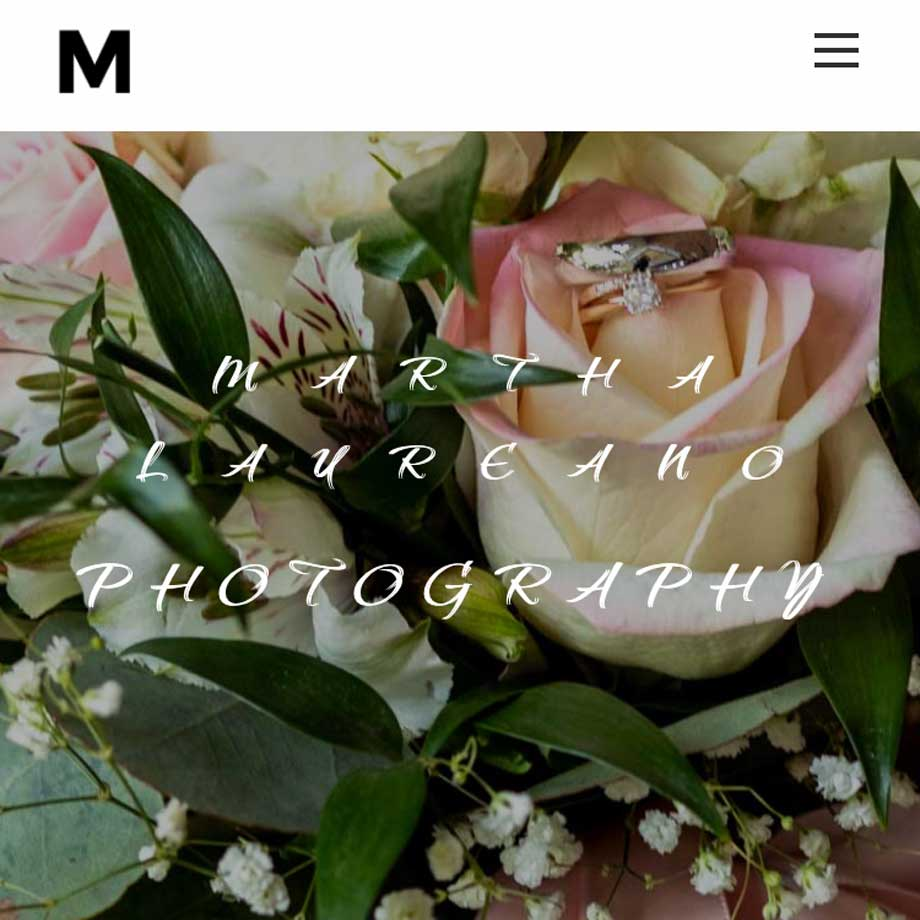
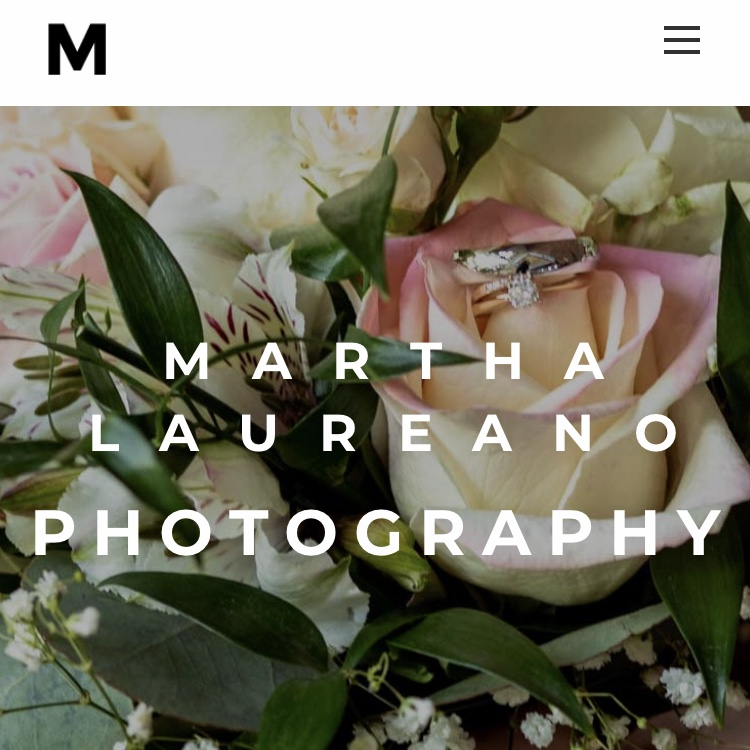
updated thumb for salonposhfresno and marthalaureanophotography

diff --git a/index.html b/index.html
@@ -65,7 +65,7 @@
 							<li><a href="#home"><span class="menu-item-span">Home</span></a></li>
 							<li><a href="#profile"><span class="menu-item-span">Profile</span></a></li>
 							<li><a href="#portfolio"><span class="menu-item-span">Work</span></a></li>
-							<li><a href="#services"><span class="menu-item-span">Services</span></a></li>
+							<!-- <li><a href="#services"><span class="menu-item-span">Services</span></a></li> -->
 							<li><a href="#contact"><span class="menu-item-span">Contact</span></a></li>
 							</li>
 						</ul>
@@ -204,7 +204,7 @@
 						</div>
 						<div class="portfolio-item js-tilt web design large">
 							<div class="portfolio-wrapper">
-								<div class="portfolio-img-wrap" data-background="assets/images/portfolio/ML2.jpg"></div>
+								<div class="portfolio-img-wrap" data-background="assets/images/portfolio/ML3.jpg"></div>
 								<div class="portfolio-overlay"></div>
 								<div class="portfolio-caption">
 									<h5 class="portfolio-title">Martha Laureano</h5>
@@ -214,7 +214,7 @@
 						</div>
 						<div class="portfolio-item js-tilt branding web design large">
 							<div class="portfolio-wrapper">
-								<div class="portfolio-img-wrap" data-background="assets/images/portfolio/PS1.jpg"></div>
+								<div class="portfolio-img-wrap" data-background="assets/images/portfolio/PS2.jpg"></div>
 								<div class="portfolio-overlay"></div>
 								<div class="portfolio-caption">
 									<h5 class="portfolio-title">Salon Posh | Posh Suites</h5>
@@ -278,7 +278,7 @@
 			<!-- Portfolio end-->
 
 			<!-- Services-->
-			<section class="module" id="services">
+			<!-- <section class="module" id="services">
 				<div class="container">
 					<div class="row">
 						<div class="col-md-12">
@@ -360,7 +360,7 @@
 						</div>
 					</div>
 				</div>
-			</section>
+			</section> -->
 			<!-- Services end-->
 
 
@@ -431,7 +431,7 @@
 				<footer class="footer">
 					<div class="container">
 						<div class="row text-center">
-							<div class="col-md-12"><span class="copyright">© 2018 <a href="#">Elon May Web & Design </a>| All Rights Reserved.</span></div>
+							<div class="col-md-12"><span class="copyright">© 2020 <a href="#">Elon May Web & Design </a>| All Rights Reserved.</span></div>
 							</div>
 						</div>
 					</div>
